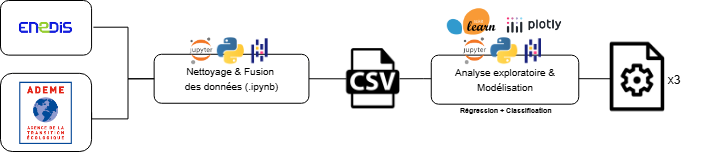
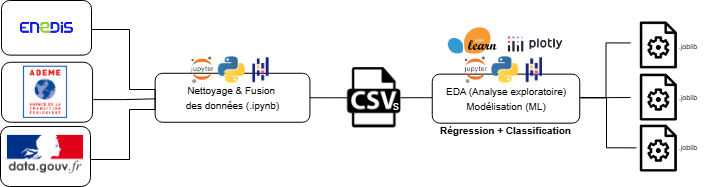
Doc teq

Changed region(s): [[0.2181, 0.0523, 0.9972, 0.9412], [0.0, 0.0261, 0.2181, 1.0], [0.0, 0.0, 0.1246, 0.0523]]

diff --git a/academic_report/DOCUMENTATION_TECHNIQUE.md b/academic_report/DOCUMENTATION_TECHNIQUE.md
@@ -35,7 +35,7 @@ Ce schéma illustre l’organisation générale des composants du projet :
 </p>
 
 Ce schéma représente la pipeline complète :
-1. **Collecte** des données depuis les **APIs ADEME** et **Enedis**.  
+1. **Collecte** des données depuis les **APIs ADEME** et **Enedis** et **Data Gouv**.  
 2. **Nettoyage et fusion** dans des notebooks Jupyter (traitement des doublons, homogénéisation des communes, conversion des unités, etc.).  
 3. **Analyse exploratoire (EDA)** et visualisation des distributions via Plotly.  
 4. **Modélisation Machine Learning** avec scikit-learn :  
@@ -82,18 +82,6 @@ Premier lancement : environ **1 à 2 minutes** pour la construction des images.
 | FastAPI | http://localhost:8000 | API de prédiction |
 | Swagger UI | http://localhost:8000/docs | Documentation API |
 
----
-
-### Arrêt et maintenance
-
-```bash
-docker compose down
-```
-
-Pour relancer uniquement l’API :
-```bash
-docker compose up api
-```
 
 ---
 
